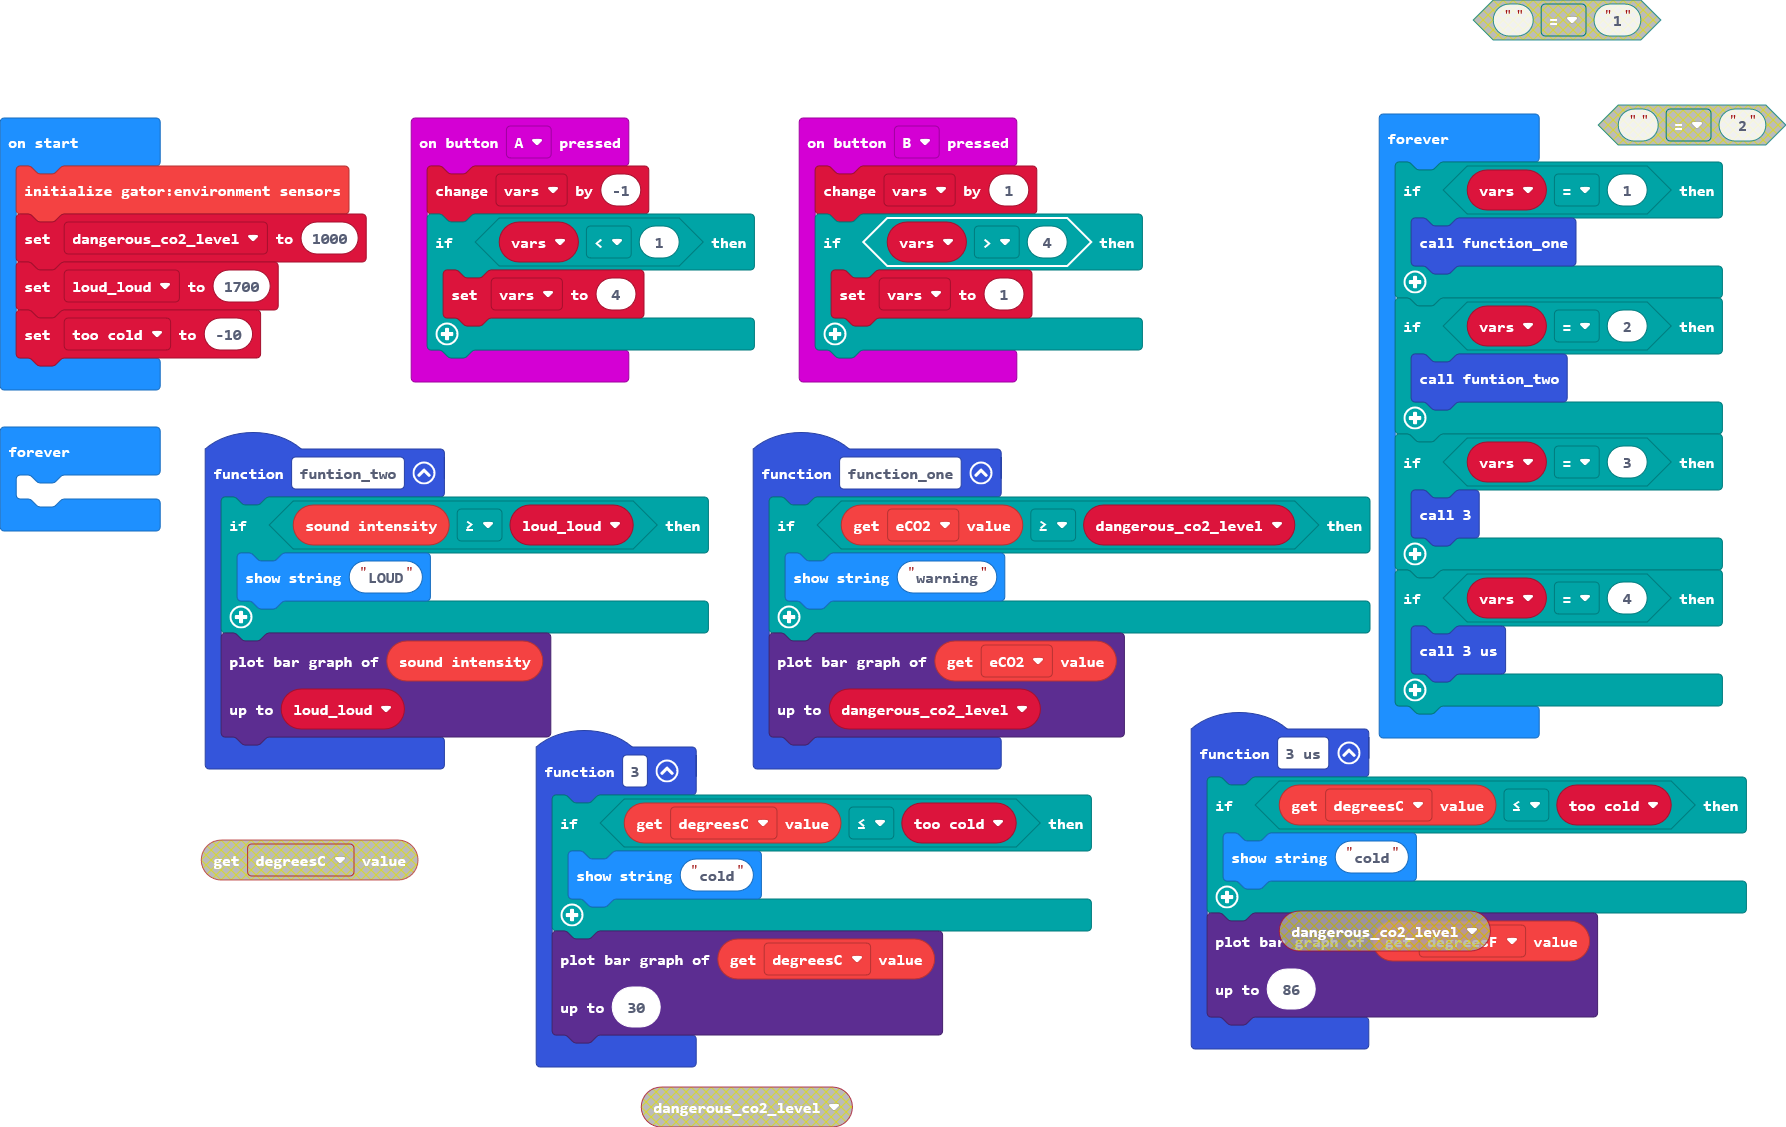
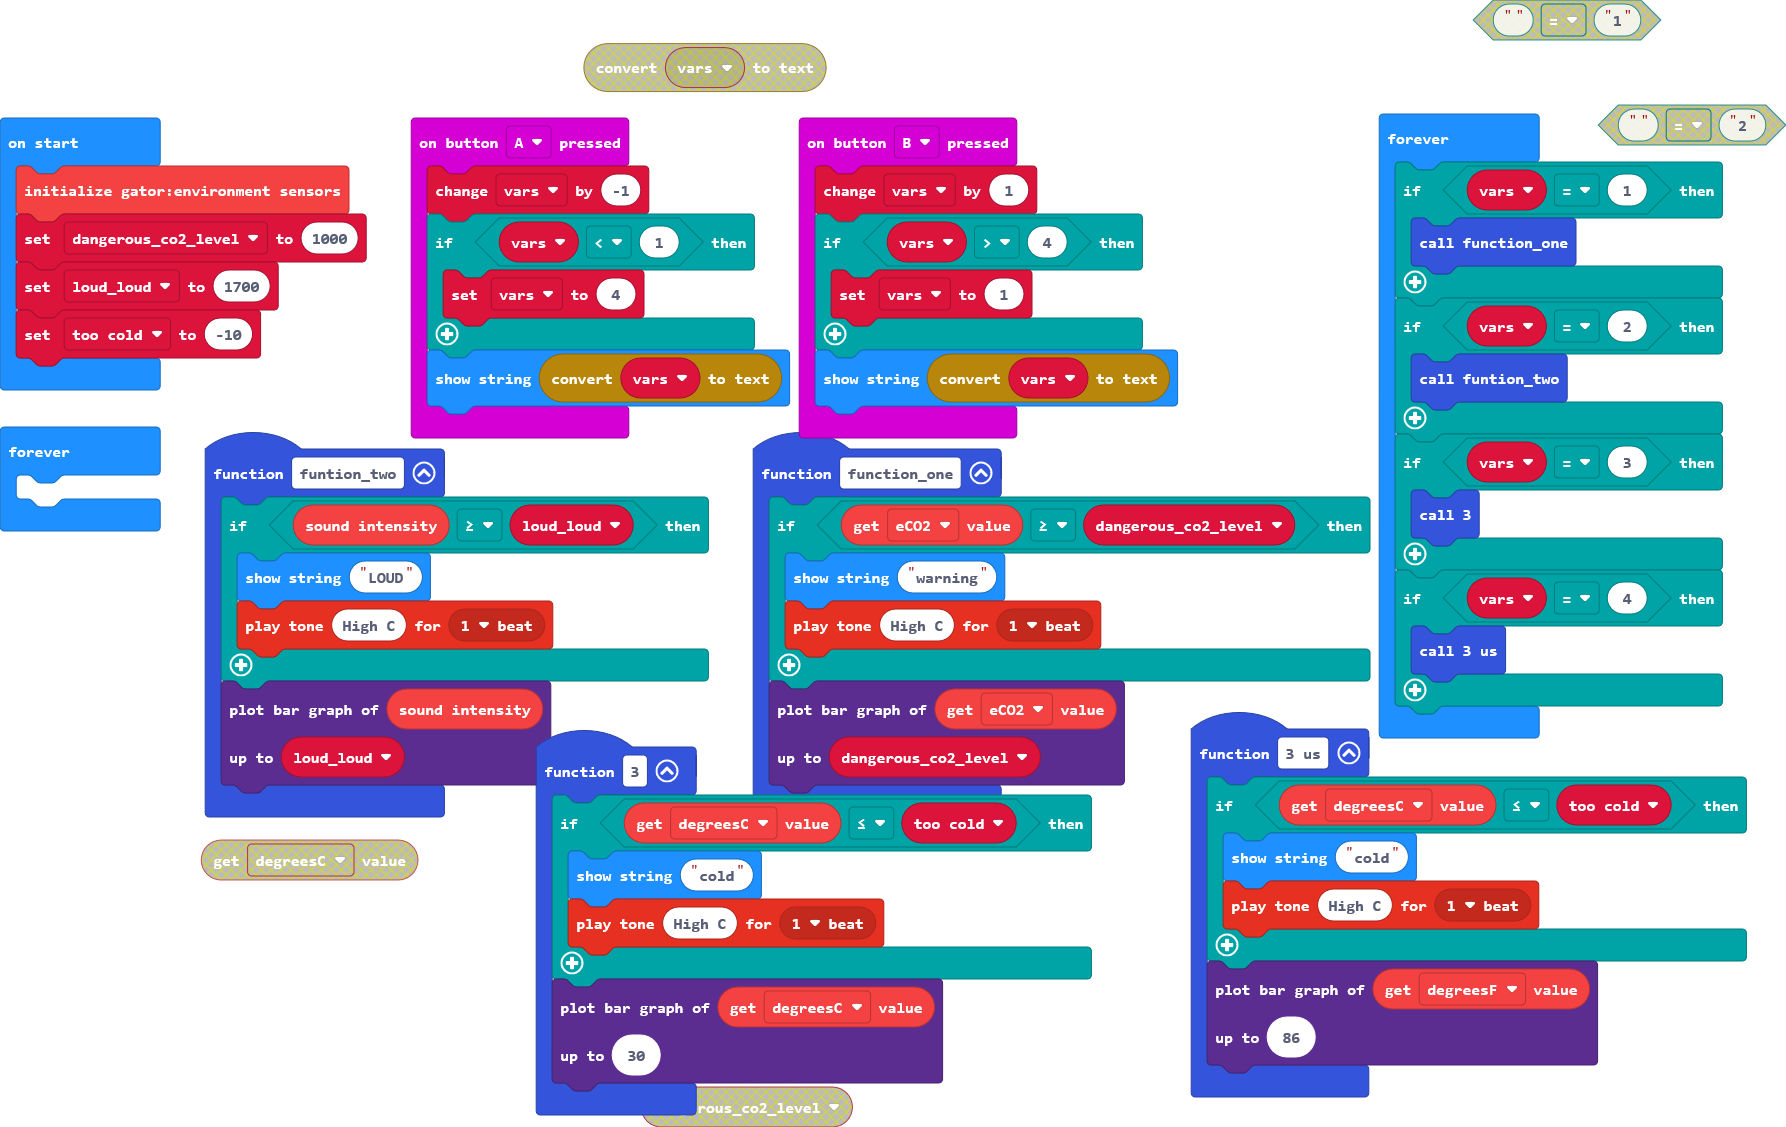
Update main.blocks, main.ts

diff --git a/main.ts b/main.ts
@@ -3,10 +3,12 @@ input.onButtonPressed(Button.A, function () {
     if (vars < 1) {
         vars = 4
     }
+    basic.showString(convertToText(vars))
 })
 function funtion_two () {
     if (gatorMicrophone.getSoundIntensity() >= loud_loud) {
         basic.showString("LOUD")
+        music.playTone(523, music.beat(BeatFraction.Whole))
     }
     led.plotBarGraph(
     gatorMicrophone.getSoundIntensity(),
@@ -16,6 +18,7 @@ function funtion_two () {
 function _3_us () {
     if (gatorEnvironment.getMeasurement(measurementType.degreesC) <= too_cold) {
         basic.showString("cold")
+        music.playTone(523, music.beat(BeatFraction.Whole))
     }
     led.plotBarGraph(
     gatorEnvironment.getMeasurement(measurementType.degreesF),
@@ -25,6 +28,7 @@ function _3_us () {
 function _3 () {
     if (gatorEnvironment.getMeasurement(measurementType.degreesC) <= too_cold) {
         basic.showString("cold")
+        music.playTone(523, music.beat(BeatFraction.Whole))
     }
     led.plotBarGraph(
     gatorEnvironment.getMeasurement(measurementType.degreesC),
@@ -36,10 +40,12 @@ input.onButtonPressed(Button.B, function () {
     if (vars > 4) {
         vars = 1
     }
+    basic.showString(convertToText(vars))
 })
 function function_one () {
     if (gatorEnvironment.getMeasurement(measurementType.eCO2) >= dangerous_co2_level) {
         basic.showString("warning")
+        music.playTone(523, music.beat(BeatFraction.Whole))
     }
     led.plotBarGraph(
     gatorEnvironment.getMeasurement(measurementType.eCO2),
